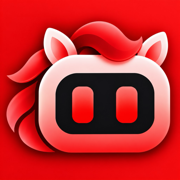
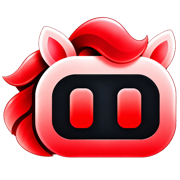
chore: sincronização automática 2026-10-20T15:27:48Z

diff --git a/src/pages/MobaErrorScreen.jsx b/src/pages/MobaErrorScreen.jsx
@@ -75,7 +75,7 @@ function MobaErrorMark() {
 
       <g className="moba-error-bot">
         <g clipPath="url(#moba-error-clip)">
-          <image href="/brand/icon-blue.jpg" x="30" y="30" width="120" height="120" />
+          <image href="/brand/icon-blue.png" x="30" y="30" width="120" height="120" />
         </g>
       </g>
     </svg>
